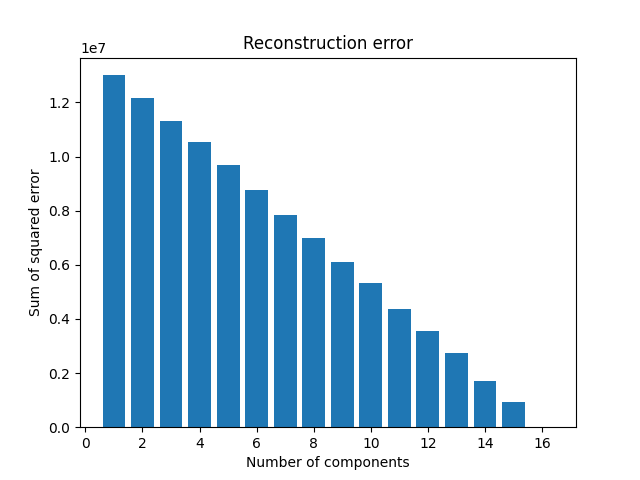
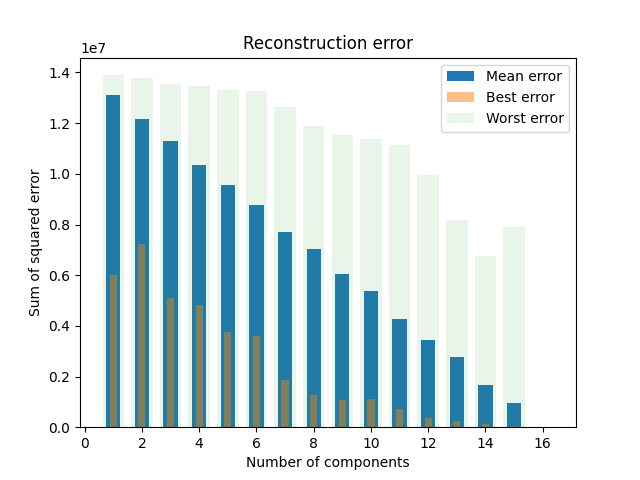
Hopefully finished Randomized Projections

diff --git a/rp.py b/rp.py
@@ -72,9 +72,9 @@ def graph_analysis(task: Task, trials: int):
     ax.set_xlabel("Number of components")
     ax.set_ylabel("Sum of squared error")
 
-    ax.bar(components_to_try, mean_errors, label='Mean error')
-    ax.bar(components_to_try, best_errors, alpha=0.5, width=0.75, label='Best error')
-    ax.bar(components_to_try, worst_errors, alpha=0.1, width=0.5, label='Worst error')
+    ax.bar(components_to_try, mean_errors, width=0.5, label='Mean error')
+    ax.bar(components_to_try, best_errors, alpha=0.5, width=0.25, label='Best error')
+    ax.bar(components_to_try, worst_errors, alpha=0.1, width=0.75, label='Worst error')
     plt.legend(loc='best')
     plt.show()
 
